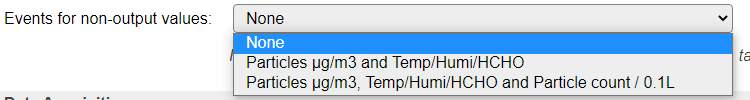
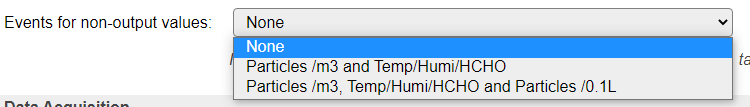
[P053] Update documentation

diff --git a/docs/source/Plugin/P053.rst b/docs/source/Plugin/P053.rst
@@ -139,17 +139,17 @@ Available options:
 
 .. image:: P053_OutputValuesOptions.png
 
-*Particles µg/m3: pm1.0, pm2.5, pm10* The default output values, available for all supported sensors.
+*Particles /m3: pm1.0, pm2.5, pm10* The default output values, available for all supported sensors.
 
-- PM1.0 - Concentration of particles > 1 micron (µm/m3)
-- PM2.5 - Concentration of particles > 2.5 micron (µm/m3)
-- PM10 - Concentration of particles > 10 micron (µm/m3)
+- PM1.0 - Concentration of particles > 1 µm/m3
+- PM2.5 - Concentration of particles > 2.5 µm/m3
+- PM10 - Concentration of particles > 10 µm/m3
 
-*(As shown in the screenshot above)*
+*(As shown in the overview screenshot above)*
 
-*Particles µg/m3: pm2.5; Other: Temp, Humi, HCHO (PMS5003ST)* Output values, providing some measurements only supported by the PMS5003ST model.
+*Particles /m3: pm2.5; Other: Temp, Humi, HCHO (PMS5003ST)* Particles 2.5 µm/m3 combined with other measurement values only supported by the PMS5003ST sensor.
 
-- PM2.5 - Concentration of particles > 2.5 micron (µm/m3)
+- PM2.5 - Concentration of particles > 2.5 µm/m3)
 - Temp - Temperature
 - Humi - Humidity
 - HCHO - Formaldehyde concentration measurement (Formula: CH\ :sub:`2`\ O, or H-CHO)
@@ -158,12 +158,12 @@ Available options:
 
 *(Value names adjusted manually)*
 
-*Part. count/0.1L: cnt1.0, cnt2.5, cnt5, cnt10 (PMS1003/5003(ST)/7003)* Count of Particles per 0.1 L of air, available on the PMS1003, PMS5003, PMS5003ST and PMS7003 sensor models.
+*Particles /0.1L: cnt1.0, cnt2.5, cnt5, cnt10 (PMS1003/5003(ST)/7003)* Count of Particles per 0.1 L of air, available on the PMS1003, PMS5003, PMS5003ST and PMS7003 sensor models.
 
-- cnt1.0 - Count of particles per 0.1L of air > 1 micron
-- cnt2.5 - Count of particles per 0.1L of air > 2.5 micron
-- cnt5 - Count of particles per 0.1L of air > 5 micron
-- cnt10 - Count of particles per 0.1L of air > 10 micron
+- cnt1.0 - Count of particles > 1 micron per 0.1L of air
+- cnt2.5 - Count of particles > 2.5 micron per 0.1L of air
+- cnt5 - Count of particles > 5 micron per 0.1L of air
+- cnt10 - Count of particles > 10 micron per 0.1L of air
 
 .. image:: P053_OutputValuesCnt.png
 
@@ -177,19 +177,19 @@ Available options:
 
 .. image:: P053_EventOptions.png
 
-*Particles µg/m3 and Temp/Humi/HCHO*:
+*Particles /m3 and Temp/Humi/HCHO*:
 
-When *Particles µg/m3: pm1.0, pm2.5, pm10* is selected: ``<Taskname>#Temp``, ``<Taskname>#Humi`` and ``<Taskname>#HCHO``, with the measured value available in ``%eventvalue1%`` (or it's alias ``%eventvalue%``).
+When *Particles /m3: pm1.0, pm2.5, pm10* is selected: ``<Taskname>#Temp``, ``<Taskname>#Humi`` and ``<Taskname>#HCHO``, with the measured value available in ``%eventvalue1%`` (or it's alias ``%eventvalue%``).
 
-When *Particles µg/m3: pm2.5; Other: Temp, Humi, HCHO (PMS5003ST)* is selected: ``<Taskname>#pm1.0`` and ``<Taskname>#pm10``.
+When *Particles /m3: pm2.5; Other: Temp, Humi, HCHO (PMS5003ST)* is selected: ``<Taskname>#pm1.0`` and ``<Taskname>#pm10``.
 
-*Particles µg/m3, Temp/Humi/HCHO and Particle count / 0.1L*:
+*Particles /m3, Temp/Humi/HCHO and Particles /0.1L*:
 
-All of the above, and also ``<Taskname>#cnt1.0``, ``<Taskname>#cnt2.5`` and ``<Taskname>#cnt10`` events are generated if these are not selected as **Output values**.
+All of the above, and also ``<Taskname>#pm2.5``, ``<Taskname>#cnt1.0``, ``<Taskname>#cnt2.5`` and ``<Taskname>#cnt10`` events are generated if these are not selected as **Output values**.
 
 These events can be used to store the values in a Dummy Device, so they can be sent out using a Controller, or they can be directly sent to an external system.
 
-Example: (Sensor device called PMS5003ST and Dummy device named ``Particles`` with 2 values named ``pm1.0`` and ``pm10``)
+Example: (Sensor device using model PMS5003ST and Dummy device named ``Particles`` with 2 values named ``pm1.0`` and ``pm10``)
 
 .. code-block:: none
 
@@ -214,17 +214,17 @@ Some rules can be used to set the sensor up to sleep most of the time:
 
   on System#Boot do
     gpio,16,0
-    LoopTimerSet,1,20
+    LoopTimerSet,1,50
   endon
   On Rules#Timer=1 do
     LongPulse,16,1,5
   endon
 
-These rules use a ``System#Boot`` event to set GPIO16 to low (0) and start a 20 sec loop-timer. (Another timer can be used if desired, then also adjust the Rules#Timer=n value)
+These rules use the ``System#Boot`` event to set GPIO16 to low (0) and start a 50 sec loop-timer. (Another timer nr. can be used if desired, then also adjust the ``On Rules#Timer=n do`` n value)
 
-The ``Rules#Timer=1`` event is triggered by this timer and sends a 5 seconds "high" pulse to the sensor waking it up.
+The ``Rules#Timer=1`` event is triggered by this timer and sends a 5 second "high" pulse to the sensor waking it up and starting a measurement.
 
-Set the delay inside the dustsensor task to 30 seconds for this. The ESPEasy plugin gets the data and stores it when the sensor gets active.
+Set the delay inside the dustsensor task to 60 seconds (default setting) for this. The plugin gets the data and stores it when the sensor gets active.
 
 Troubleshooting
 ^^^^^^^^^^^^^^^^
